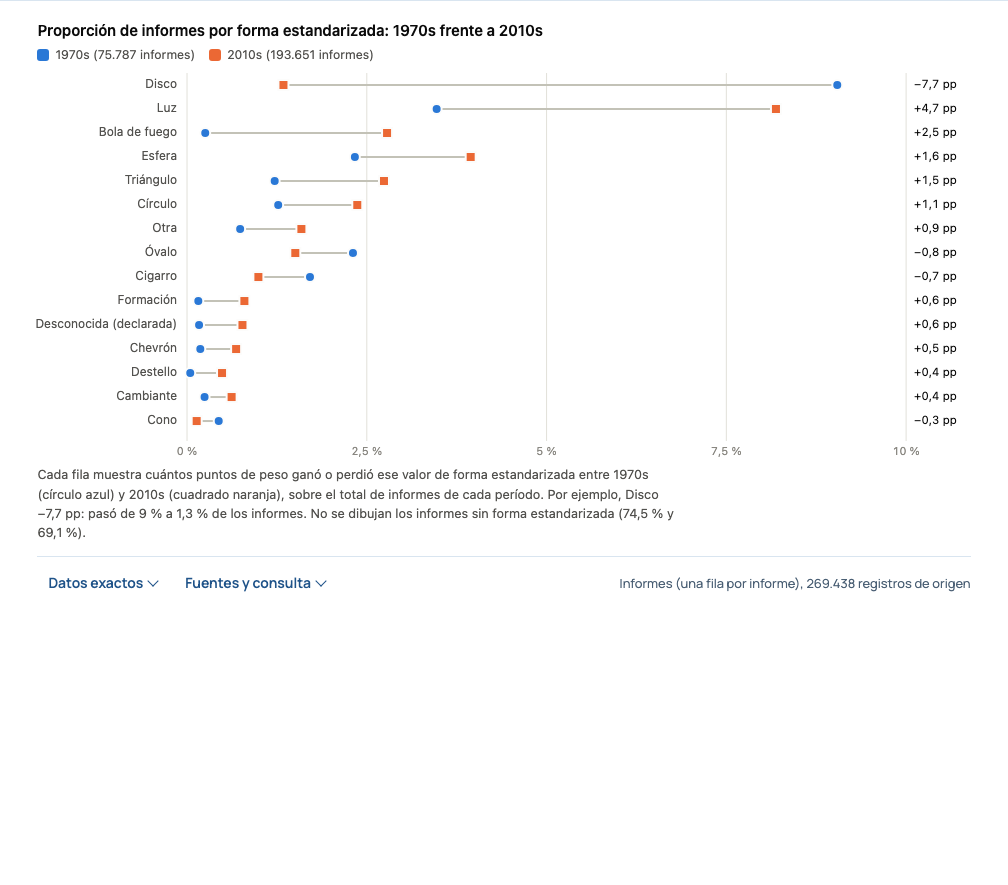
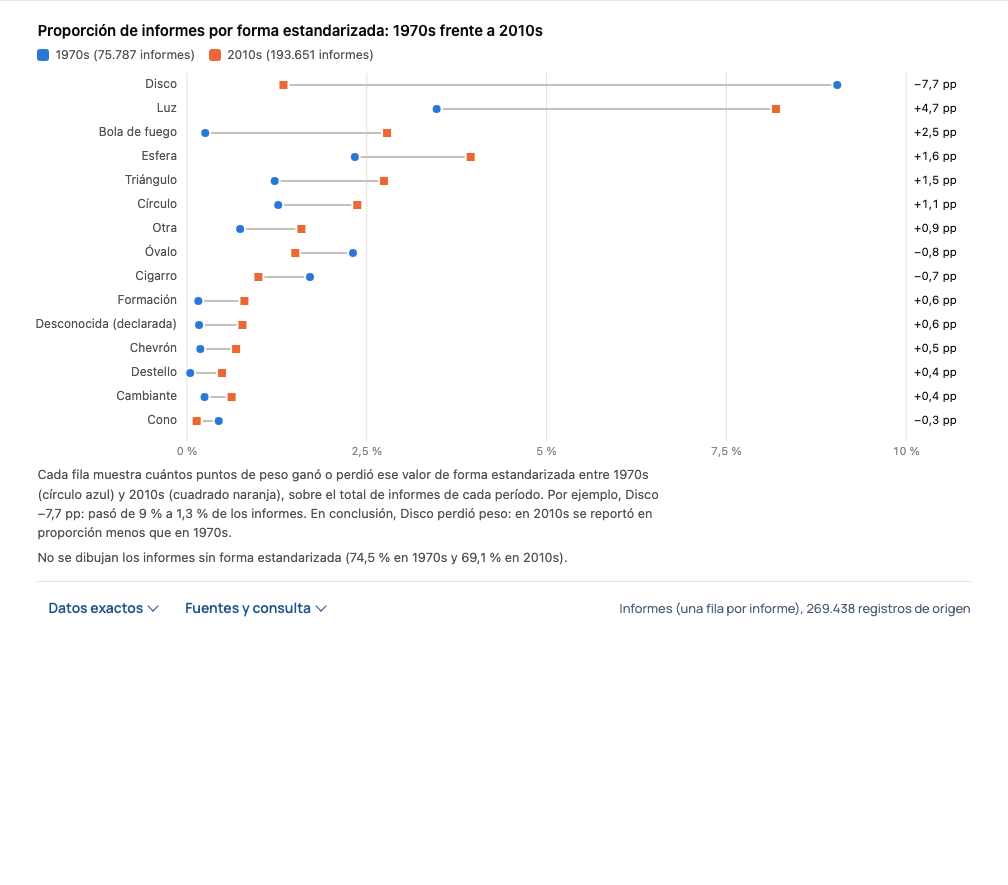
Añade una conclusión al ejemplo del cambio entre períodos
La nota termina con una conclusión del ejemplo (si el valor ganó o perdió
peso) y los informes que no se dibujan pasan a una oración aparte.

Changed region(s): [[0.0308, 0.5492, 0.6458, 0.7017], [0.6151, 0.6407, 0.9534, 0.7017]]

diff --git a/apps/web/tests/e2e/proposals.spec.ts b/apps/web/tests/e2e/proposals.spec.ts
@@ -50,8 +50,9 @@ test("cambio entre períodos: proporciones sobre el total de cada período", asy
   const marks = page.locator(".viz-panel .mark");
   await expect(marks.first()).toHaveAttribute("aria-label", "Luz: 20 % en 1970s, 90 % en 2010s (+70 pp)");   // el mayor cambio primero
   await expect(marks.nth(1)).toHaveAttribute("aria-label", "Disco: 60 % en 1970s, 10 % en 2010s (−50 pp)");
-  await expect(page.locator(".dumbbell-help")).toContainText("Por ejemplo, Luz +70 pp: pasó de 20 % a 90 % de los informes.");
-  await expect(page.locator(".dumbbell-help")).toContainText("No se dibujan los informes sin forma estandarizada (20 % y 0 %).");
+  await expect(page.locator(".dumbbell-help")).toContainText("Por ejemplo, Luz +70 pp: pasó de 20 % a 90 % de los informes. En conclusión, Luz ganó peso: en 2010s se reportó en proporción más que en 1970s.");
+  await expect(page.locator(".dumbbell-help p")).toHaveCount(2);
+  await expect(page.locator(".dumbbell-help")).toContainText("No se dibujan los informes sin forma estandarizada (20 % en 1970s y 0 % en 2010s).");
   await expect(page.locator(".viz-panel .mark")).toHaveCount(2);                     // “sin dato” no se dibuja
   await noViolations(page);
 });

diff --git a/apps/web/src/components/views/proposals.tsx b/apps/web/src/components/views/proposals.tsx
@@ -260,7 +260,8 @@ export function DumbbellView({ result, catalog }: Props) {
             <div className="viz-note dumbbell-help">
               <p>Cada fila muestra cuántos puntos de peso ganó o perdió ese valor de {what} entre {p0} (círculo azul) y {p1} (cuadrado naranja), sobre el total de informes de cada período.
                 {ex ? ` Por ejemplo, ${ex.c} ${ex.delta >= 0 ? "+" : "−"}${(Math.round(Math.abs(ex.delta) * 1000) / 10).toLocaleString("es-ES")} pp: pasó de ${pct(ex.shares[0].share, 1)} a ${pct(ex.shares[1].share, 1)} de los informes.` : ""}
-                {missingShare.some((m) => m > 0) ? ` No se dibujan los informes sin ${what} (${pct(missingShare[0], 1)} y ${pct(missingShare[1], 1)}).` : ""}</p>
+                {ex ? ` En conclusión, ${ex.c} ${ex.delta >= 0 ? "ganó" : "perdió"} peso: en ${p1} se reportó en proporción ${ex.delta >= 0 ? "más" : "menos"} que en ${p0}.` : ""}</p>
+              {missingShare.some((m) => m > 0) ? <p>No se dibujan los informes sin {what} ({pct(missingShare[0], 1)} en {p0} y {pct(missingShare[1], 1)} en {p1}).</p> : null}
             </div>
           );
         })()}
